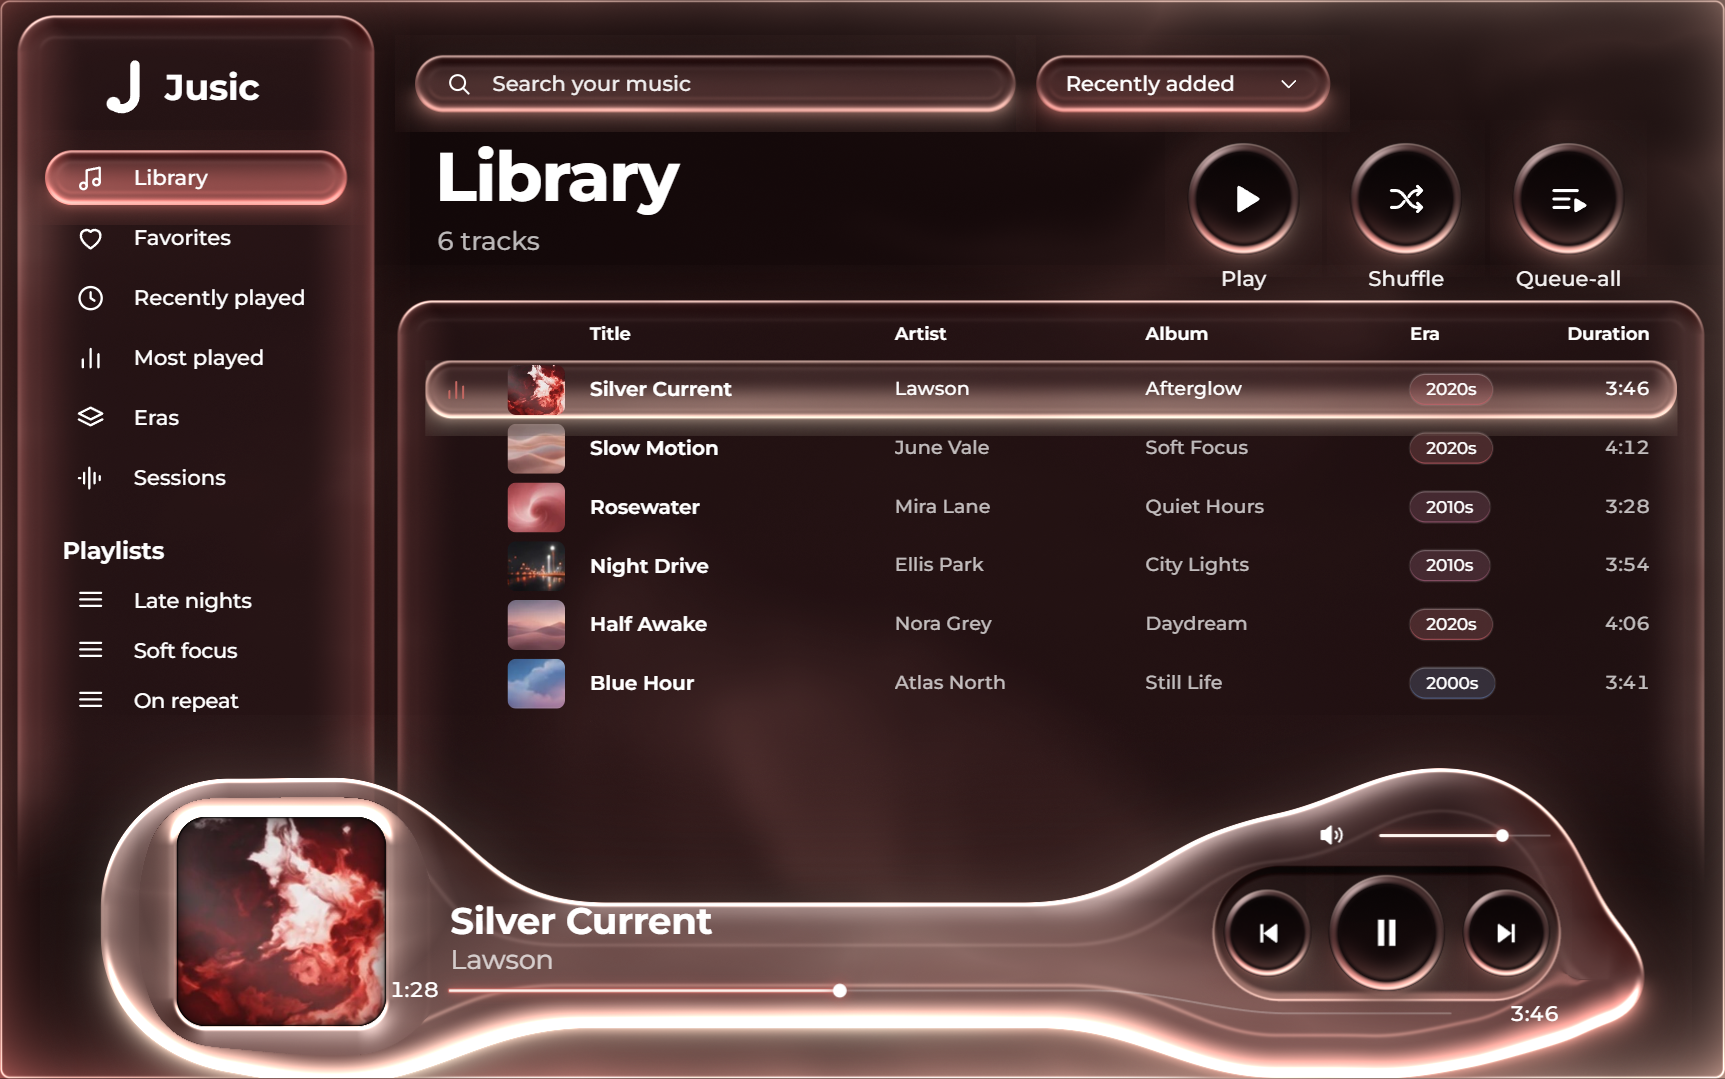
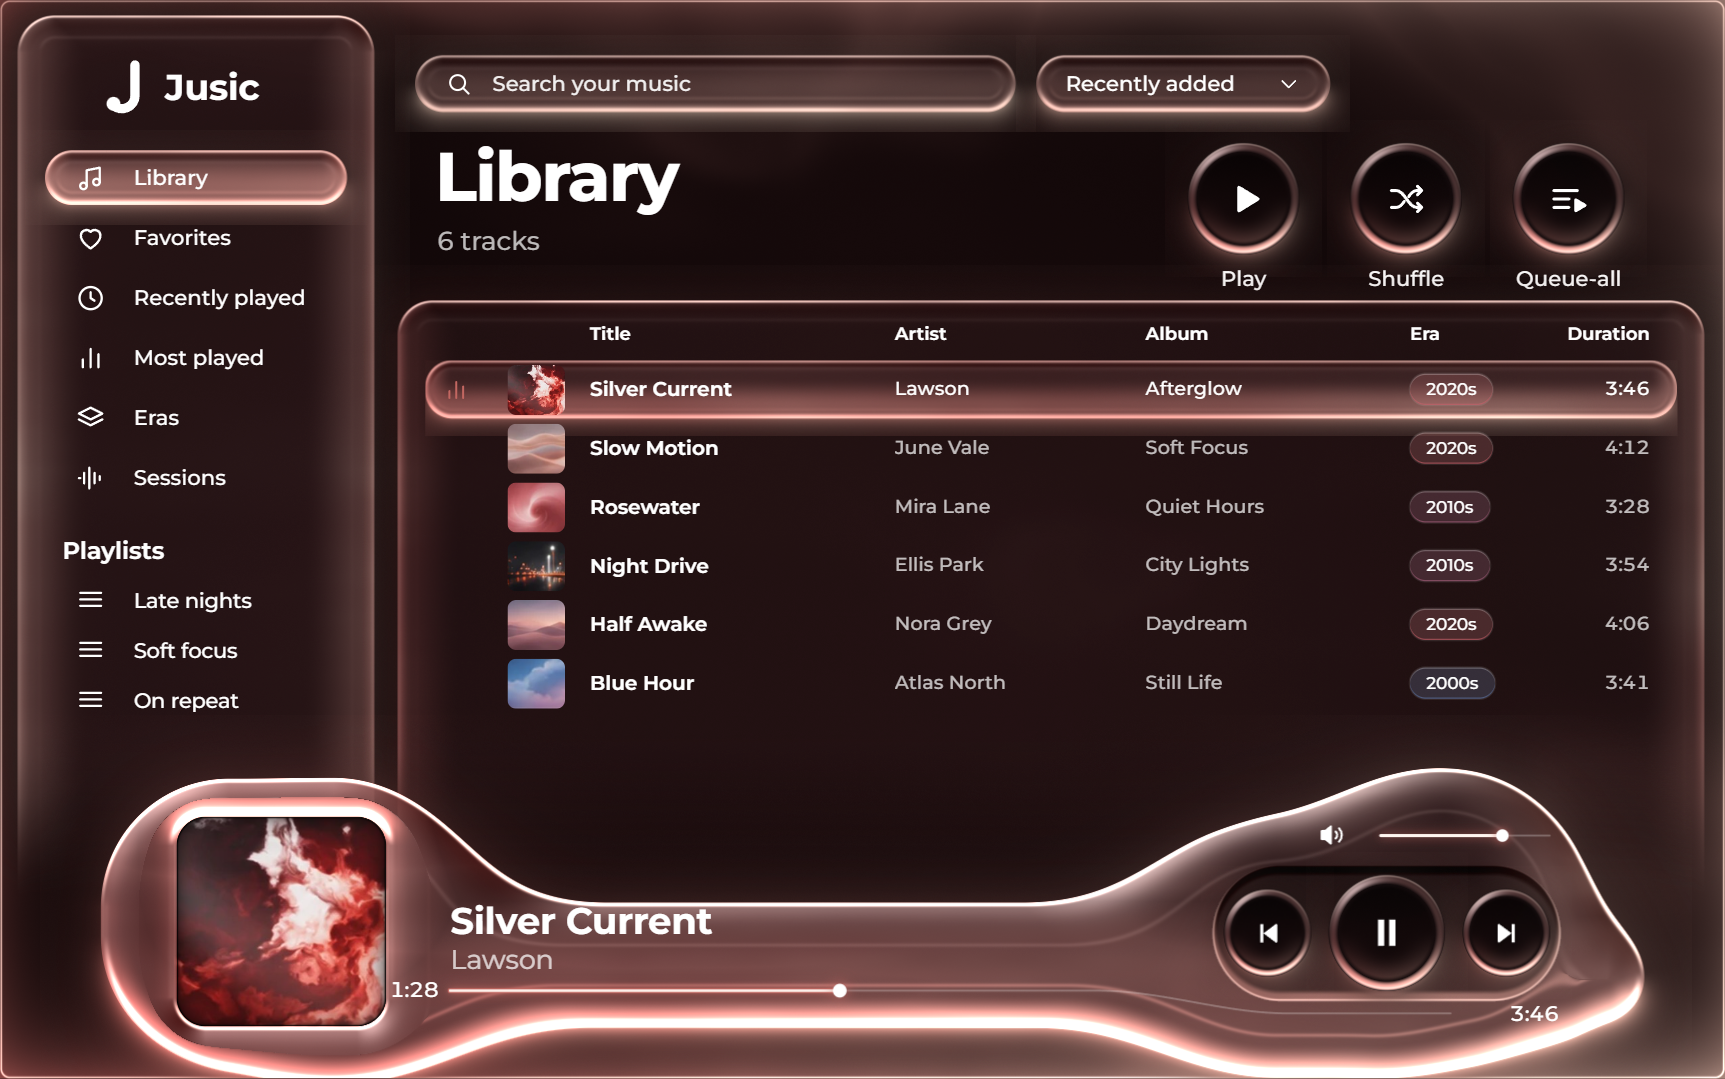
Frosted: handoff budget figures, and the rose capture after the list change

diff --git a/HANDOFF.md b/HANDOFF.md
@@ -124,7 +124,7 @@ My reading: this sits inside his standing motion rule (the glass stays still whi
 
 ## Budgets so far
 
-- Runtime code against `main`: about **+1,470 / -60 lines**, with the old interface still in place (the shell 187, kiln 249, glass 150, ribbon 71, palette 120, loop 58, vlist 54, `frosted.css` 134, the spike page 260, engine and settings about +190, server +45). The spike page goes when stage 4 lands, and stage 4 replaces `styles.css` (2,116 lines) and removes `fx.js` and the old layout code. Allowance: +2,500, aim +1,800.
+- Runtime code against `main`: **+1,516 / -40 lines**, with the old interface still in place (the shell 187, kiln 249, glass 150, ribbon 71, palette 120, loop 58, vlist 54, `frosted.css` 134, the spike page 260, engine and settings about +190, server +45). The spike page goes when stage 4 lands, and stage 4 replaces `styles.css` (2,116 lines) and removes `fx.js` and the old layout code. Allowance: +2,500, aim +1,800.
 - GLSL: about 170 lines (allowance about 400).
-- Tools: about 830 lines (`tools/perf/` 700, `tools/capture/shot.js` 56, `tools/demo/make-covers.js` 43, `tools/media-overlay.ps1` 24). Slightly over the aim of 800; the old Mercury capture scripts in `tools/capture/` (about 760 lines) are not counted and can go once nothing needs them.
+- Tools: 809 lines (`tools/perf/` 686, `tools/capture/shot.js` 56, `tools/demo/make-covers.js` 43, `tools/media-overlay.ps1` 24). Slightly over the aim of 800; the old Mercury capture scripts in `tools/capture/` (about 760 lines) are not counted and can go once nothing needs them.
 - Binary assets added to `public/`: none. (The demo covers, 55 KB, live in `tools/demo/`.)
